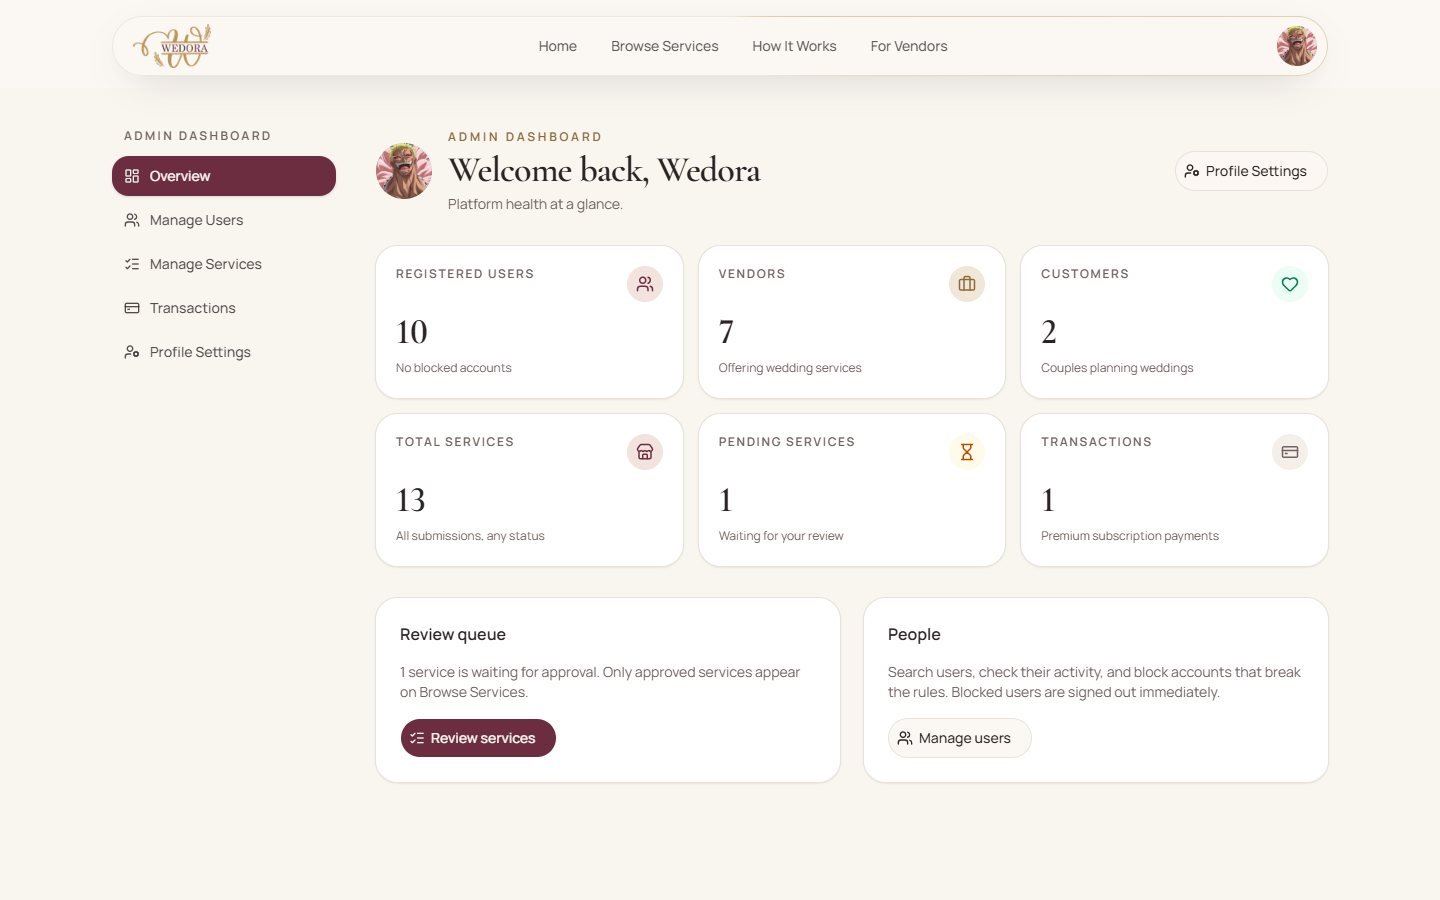
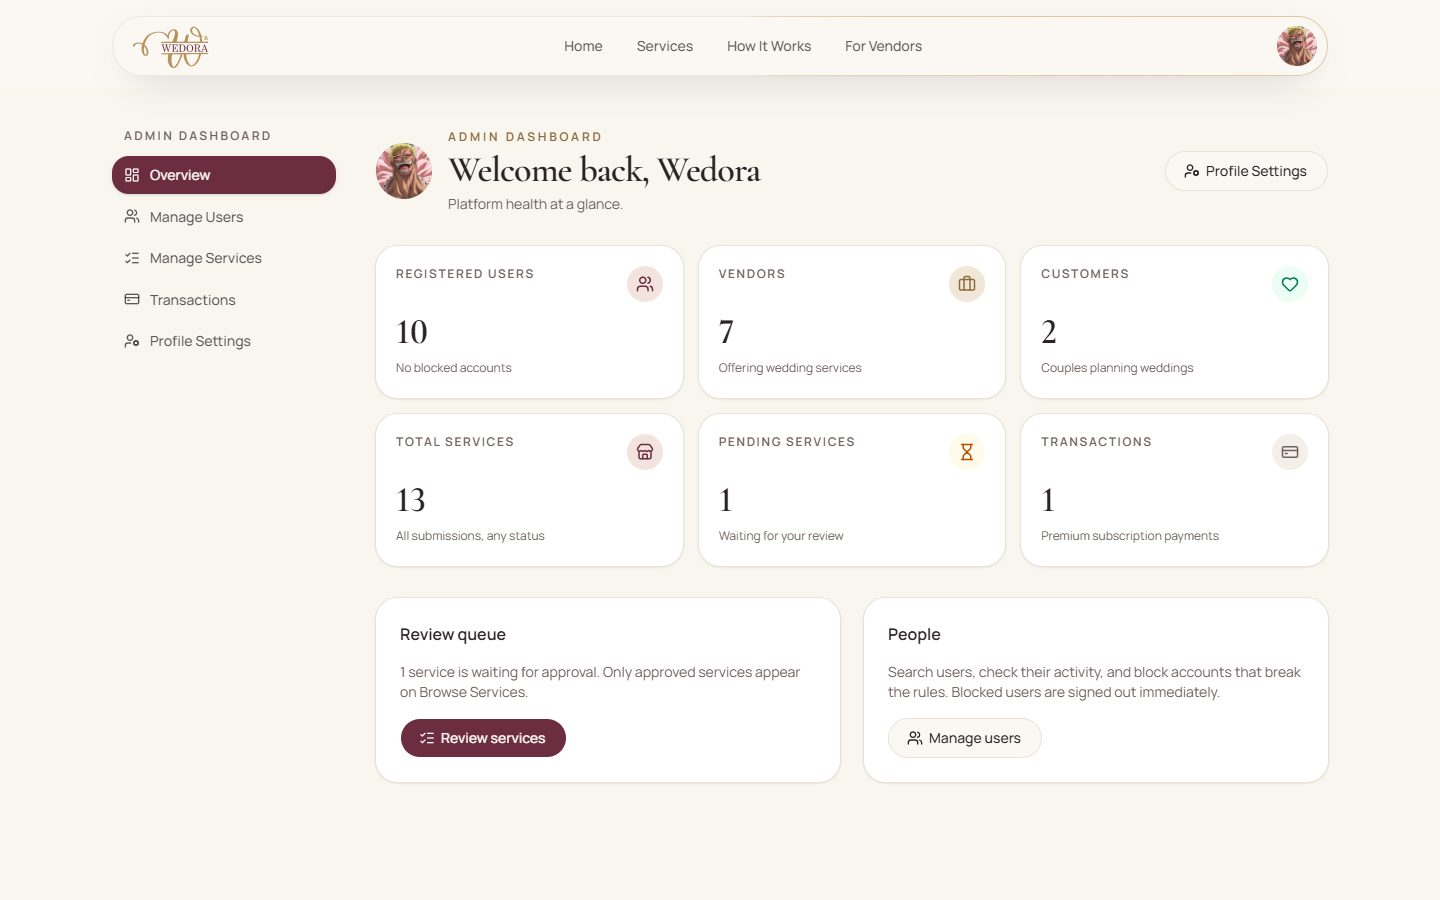
Update the README with the latest features, fresh screenshots and copyright

diff --git a/README.md b/README.md
@@ -37,7 +37,7 @@ A wedding services marketplace. Couples discover trusted vendors and request boo
 - [Scripts](#scripts)
 - [Quality](#quality)
 - [Deployment](#deployment)
-- [Credits](#credits)
+- [Copyright](#copyright)
 
 ## Overview
 
@@ -81,7 +81,7 @@ Services are grouped into six categories: Photography & Videography, Wedding Ven
 - **Booking Requests:** customer contact details and message; accept or reject each request once.
 - **Plans:**
   - **Free:** up to 3 active services.
-  - **Premium:** unlimited services for $29/month through Stripe Checkout, with cancel and resume and a full payment history.
+  - **Premium:** unlimited services and a Premium vendor badge for $29/month through Stripe Checkout, with cancel and resume and a full payment history.
 - **Dashboard overview:** service, booking and plan statistics.
 
 ### For admins
@@ -99,14 +99,15 @@ Services are grouped into six categories: Photography & Videography, Wedding Ven
   - Users can never set their own role, block status or plan.
   - Premium is activated only by the API's verified Stripe webhook, never by the browser.
 - **Profile Settings:**
-  - Name, phone, business name (vendors) and a profile photo.
+  - Name, phone, business name (vendors) and a profile photo. Sign-up stays short: the photo is added here after signing in.
   - Photos can be dragged in. They're cropped and shrunk to a 512 px WebP in the browser before upload; in testing, a 9 MB photo became 37 KB.
 - **"Golden Hour" interface:**
-  - A WebGL hero (Three.js with React Three Fiber) and GSAP text reveals.
+  - **An animated logo that writes itself** (SVG and GSAP): it loops in the navbar, footer and sign-in panel, and opens the home page as a full-page intro.
+  - A WebGL hero (Three.js with React Three Fiber) and GSAP text reveals. Cards rise in one by one as they scroll into view.
+  - A closing footer scene: the WEDORA wordmark writes itself while a gold light drifts through the letters and follows the cursor.
   - Lenis smooth scrolling, tilt cards, and a floating glass navbar.
-  - A full-page intro on public pages.
 - **Responsive and accessible:**
-  - Mobile-first layouts with no horizontal scrolling.
+  - Mobile-first layouts with no horizontal scrolling. On phones the dashboards switch to a one-row tab bar, and admin tables become card lists.
   - Keyboard and screen-reader friendly.
   - Every animation respects *reduced motion*.
 - **Fast:**
@@ -244,7 +245,7 @@ Copy [`.env.example`](.env.example) to `.env.local`. Only variables prefixed wit
 ## Quality
 
 - **Static checks:** strict TypeScript and ESLint with a zero-warning policy.
-- **Unit tests:** 65 Vitest tests. They cover sign-up and profile validation, safe redirect handling, service and admin query parsing, booking validation, billing helpers, date and money formatting, image upload checks, and the in-browser image shrinking.
+- **Unit tests:** 71 Vitest tests. They cover sign-up and profile validation, safe redirect handling, service and admin query parsing, booking validation, billing helpers, date and money formatting, image upload checks, the in-browser image shrinking, and the animated logo's timeline.
 - **Lighthouse on the live site** (desktop, November 2026):
   - Performance: Home 98, Browse Services 94, Sign In 97.
   - Layout shift (CLS): 0.
@@ -263,3 +264,9 @@ The app is deployed on **Vercel**.
 4. On the **API** deployment:
    - `CLIENT_ORIGIN`, `BETTER_AUTH_ISSUER` and `BETTER_AUTH_AUDIENCE`: this app's URL.
    - `BETTER_AUTH_JWKS_URL`: `https://<your-domain>/api/auth/jwks`
+
+## Copyright
+
+© 2026 Wedora. All rights reserved.
+
+Designed and developed by [The Code Work Studio](https://thecodeworkstudio.com).
